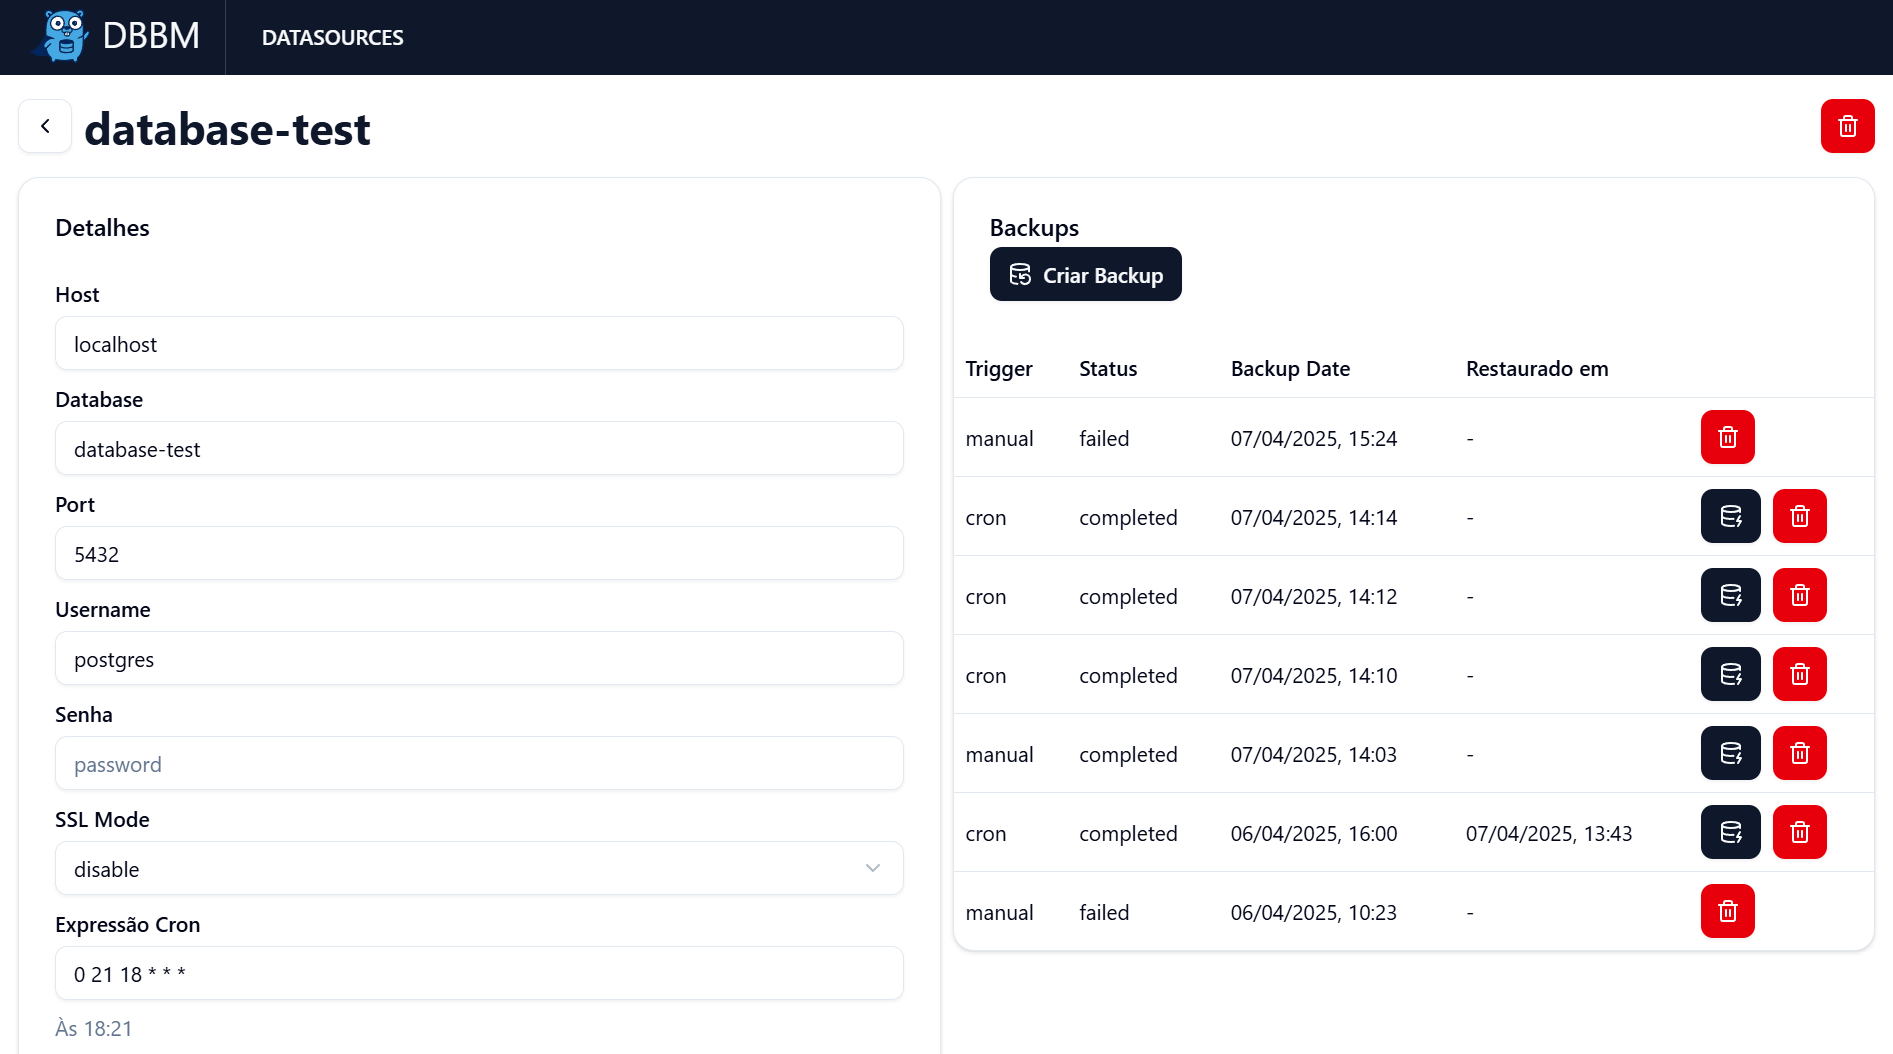
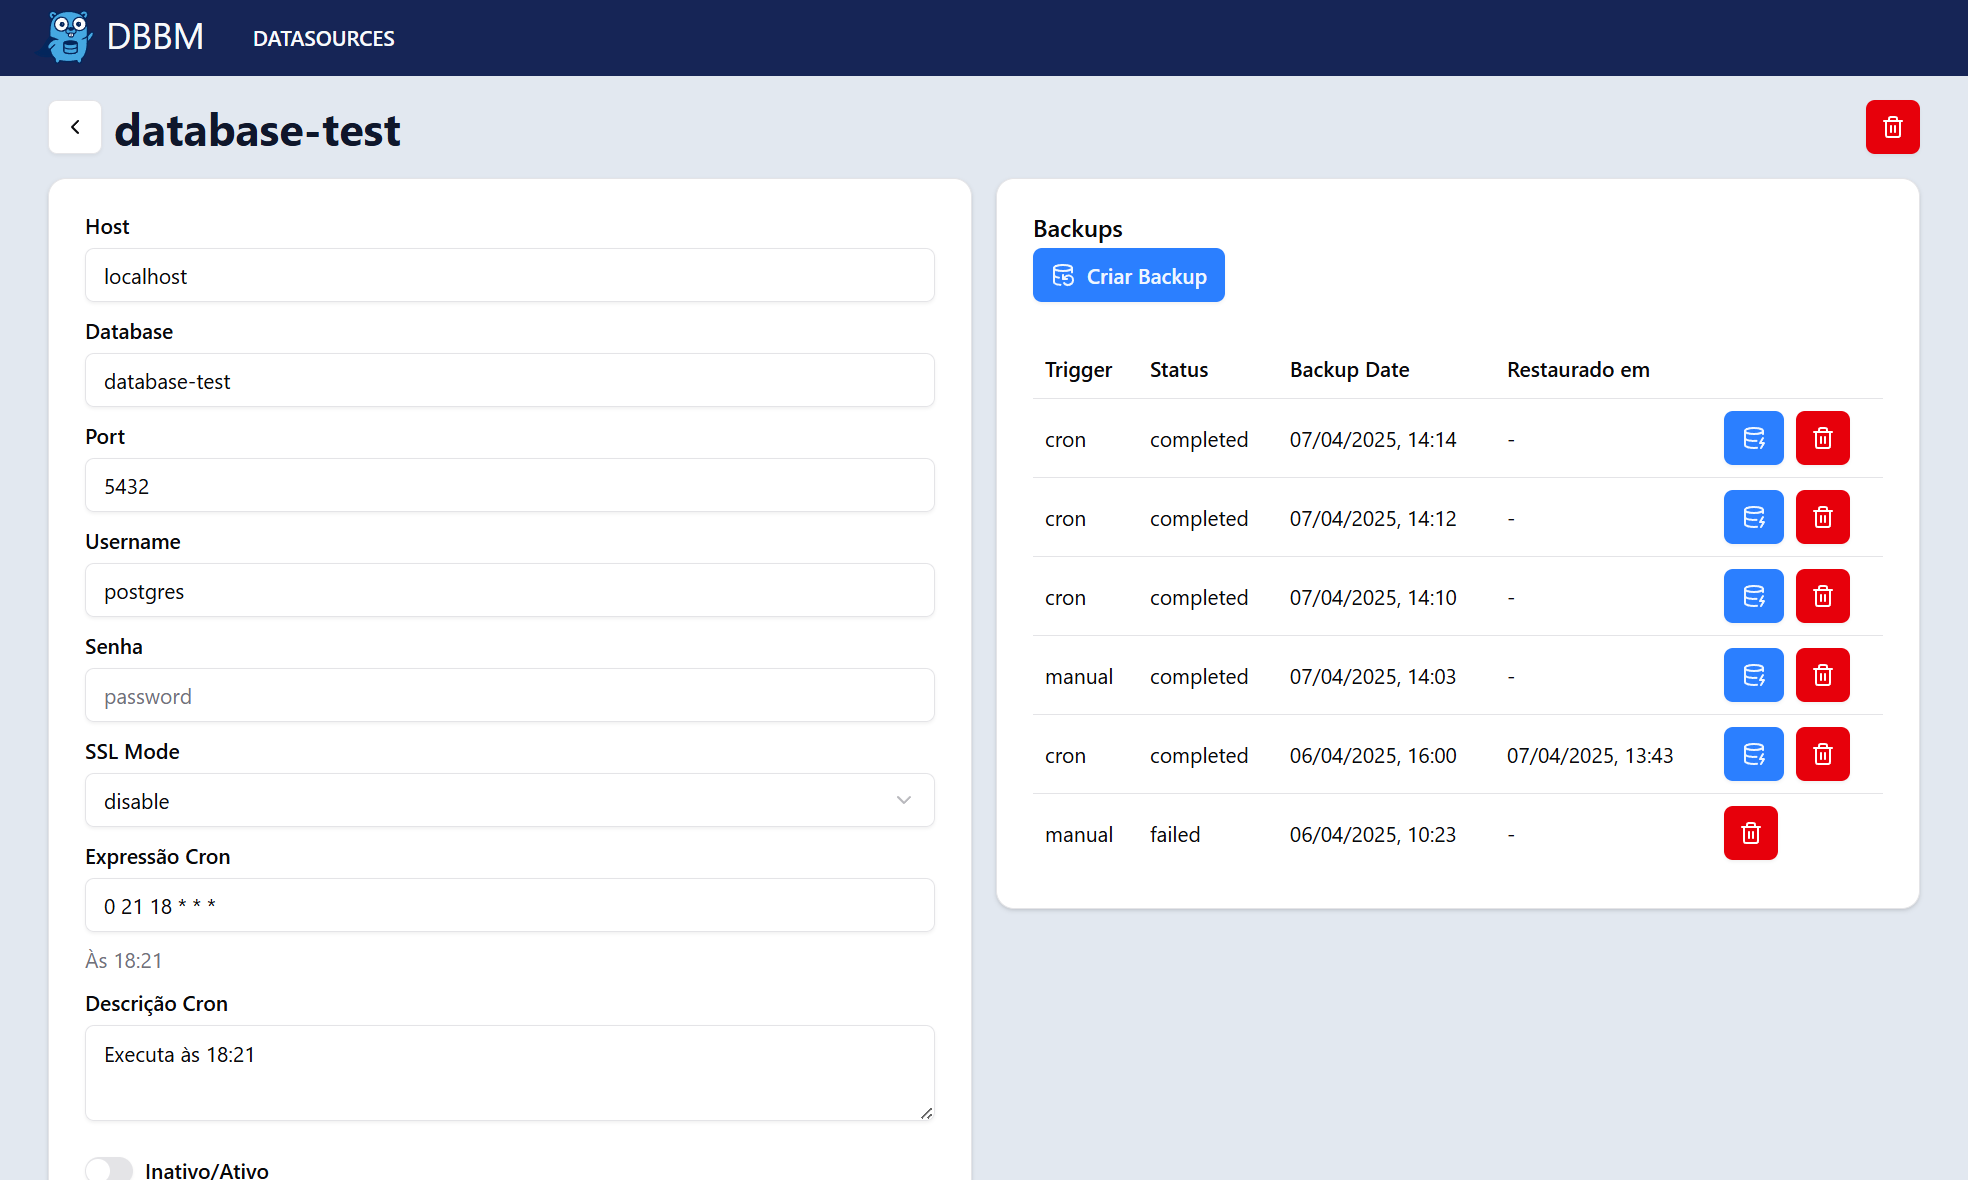
feat: implement confirmation dialog

diff --git a/src/app/globals.css b/src/app/globals.css
@@ -2,74 +2,73 @@
 @import "tw-animate-css";
 
 @custom-variant dark (&:is(.dark *));
-
 :root {
-  --radius: 0.625rem;
+  --radius: 0.5rem;
   --background: oklch(1 0 0);
-  --foreground: oklch(0.129 0.042 264.695);
+  --foreground: oklch(0.141 0.005 285.823);
   --card: oklch(1 0 0);
-  --card-foreground: oklch(0.129 0.042 264.695);
+  --card-foreground: oklch(0.141 0.005 285.823);
   --popover: oklch(1 0 0);
-  --popover-foreground: oklch(0.129 0.042 264.695);
-  --primary: oklch(0.208 0.042 265.755);
-  --primary-foreground: oklch(0.984 0.003 247.858);
-  --secondary: oklch(0.968 0.007 247.896);
-  --secondary-foreground: oklch(0.208 0.042 265.755);
-  --muted: oklch(0.968 0.007 247.896);
-  --muted-foreground: oklch(0.554 0.046 257.417);
-  --accent: oklch(0.968 0.007 247.896);
-  --accent-foreground: oklch(0.208 0.042 265.755);
+  --popover-foreground: oklch(0.141 0.005 285.823);
+  --primary: oklch(0.623 0.214 259.815);
+  --primary-foreground: oklch(0.97 0.014 254.604);
+  --secondary: oklch(0.967 0.001 286.375);
+  --secondary-foreground: oklch(0.21 0.006 285.885);
+  --muted: oklch(0.967 0.001 286.375);
+  --muted-foreground: oklch(0.552 0.016 285.938);
+  --accent: oklch(0.967 0.001 286.375);
+  --accent-foreground: oklch(0.21 0.006 285.885);
   --destructive: oklch(0.577 0.245 27.325);
-  --border: oklch(0.929 0.013 255.508);
-  --input: oklch(0.929 0.013 255.508);
-  --ring: oklch(0.704 0.04 256.788);
+  --border: oklch(0.92 0.004 286.32);
+  --input: oklch(0.92 0.004 286.32);
+  --ring: oklch(0.623 0.214 259.815);
   --chart-1: oklch(0.646 0.222 41.116);
   --chart-2: oklch(0.6 0.118 184.704);
   --chart-3: oklch(0.398 0.07 227.392);
   --chart-4: oklch(0.828 0.189 84.429);
   --chart-5: oklch(0.769 0.188 70.08);
-  --sidebar: oklch(0.984 0.003 247.858);
-  --sidebar-foreground: oklch(0.129 0.042 264.695);
-  --sidebar-primary: oklch(0.208 0.042 265.755);
-  --sidebar-primary-foreground: oklch(0.984 0.003 247.858);
-  --sidebar-accent: oklch(0.968 0.007 247.896);
-  --sidebar-accent-foreground: oklch(0.208 0.042 265.755);
-  --sidebar-border: oklch(0.929 0.013 255.508);
-  --sidebar-ring: oklch(0.704 0.04 256.788);
+  --sidebar: oklch(0.985 0 0);
+  --sidebar-foreground: oklch(0.141 0.005 285.823);
+  --sidebar-primary: oklch(0.623 0.214 259.815);
+  --sidebar-primary-foreground: oklch(0.97 0.014 254.604);
+  --sidebar-accent: oklch(0.967 0.001 286.375);
+  --sidebar-accent-foreground: oklch(0.21 0.006 285.885);
+  --sidebar-border: oklch(0.92 0.004 286.32);
+  --sidebar-ring: oklch(0.623 0.214 259.815);
 }
 
 .dark {
-  --background: oklch(0.129 0.042 264.695);
-  --foreground: oklch(0.984 0.003 247.858);
-  --card: oklch(0.208 0.042 265.755);
-  --card-foreground: oklch(0.984 0.003 247.858);
-  --popover: oklch(0.208 0.042 265.755);
-  --popover-foreground: oklch(0.984 0.003 247.858);
-  --primary: oklch(0.929 0.013 255.508);
-  --primary-foreground: oklch(0.208 0.042 265.755);
-  --secondary: oklch(0.279 0.041 260.031);
-  --secondary-foreground: oklch(0.984 0.003 247.858);
-  --muted: oklch(0.279 0.041 260.031);
-  --muted-foreground: oklch(0.704 0.04 256.788);
-  --accent: oklch(0.279 0.041 260.031);
-  --accent-foreground: oklch(0.984 0.003 247.858);
+  --background: oklch(0.141 0.005 285.823);
+  --foreground: oklch(0.985 0 0);
+  --card: oklch(0.21 0.006 285.885);
+  --card-foreground: oklch(0.985 0 0);
+  --popover: oklch(0.21 0.006 285.885);
+  --popover-foreground: oklch(0.985 0 0);
+  --primary: oklch(0.546 0.245 262.881);
+  --primary-foreground: oklch(0.379 0.146 265.522);
+  --secondary: oklch(0.274 0.006 286.033);
+  --secondary-foreground: oklch(0.985 0 0);
+  --muted: oklch(0.274 0.006 286.033);
+  --muted-foreground: oklch(0.705 0.015 286.067);
+  --accent: oklch(0.274 0.006 286.033);
+  --accent-foreground: oklch(0.985 0 0);
   --destructive: oklch(0.704 0.191 22.216);
   --border: oklch(1 0 0 / 10%);
   --input: oklch(1 0 0 / 15%);
-  --ring: oklch(0.551 0.027 264.364);
+  --ring: oklch(0.488 0.243 264.376);
   --chart-1: oklch(0.488 0.243 264.376);
   --chart-2: oklch(0.696 0.17 162.48);
   --chart-3: oklch(0.769 0.188 70.08);
   --chart-4: oklch(0.627 0.265 303.9);
   --chart-5: oklch(0.645 0.246 16.439);
-  --sidebar: oklch(0.208 0.042 265.755);
-  --sidebar-foreground: oklch(0.984 0.003 247.858);
-  --sidebar-primary: oklch(0.488 0.243 264.376);
-  --sidebar-primary-foreground: oklch(0.984 0.003 247.858);
-  --sidebar-accent: oklch(0.279 0.041 260.031);
-  --sidebar-accent-foreground: oklch(0.984 0.003 247.858);
+  --sidebar: oklch(0.21 0.006 285.885);
+  --sidebar-foreground: oklch(0.985 0 0);
+  --sidebar-primary: oklch(0.546 0.245 262.881);
+  --sidebar-primary-foreground: oklch(0.379 0.146 265.522);
+  --sidebar-accent: oklch(0.274 0.006 286.033);
+  --sidebar-accent-foreground: oklch(0.985 0 0);
   --sidebar-border: oklch(1 0 0 / 10%);
-  --sidebar-ring: oklch(0.551 0.027 264.364);
+  --sidebar-ring: oklch(0.488 0.243 264.376);
 }
 
 @theme inline {

diff --git a/src/app/(dashboard)/datasources/_components/delete-datasource-button.tsx b/src/app/(dashboard)/datasources/_components/delete-datasource-button.tsx
@@ -4,8 +4,18 @@ import { Trash2 } from "lucide-react"
 import { useRouter } from "next/navigation"
 import { toast } from "sonner"
 import { deleteDatasource } from "~/actions/datasource"
+import {
+  AlertDialog,
+  AlertDialogAction,
+  AlertDialogCancel,
+  AlertDialogContent,
+  AlertDialogDescription,
+  AlertDialogFooter,
+  AlertDialogHeader,
+  AlertDialogTitle,
+  AlertDialogTrigger,
+} from "~/components/ui/alert-dialog"
 import { Button } from "~/components/ui/button"
-
 type Props = {
   datasourceId: string
 }
@@ -21,7 +31,25 @@ export function DeleteDatasourceButton({ datasourceId }: Props) {
     })
   }
 
-  return <Button variant="destructive" size="icon" onClick={handleDeleteDatasource}>
-    <Trash2 />
-  </Button>
+  return (
+    <AlertDialog>
+      <AlertDialogTrigger asChild>
+        <Button variant="destructive" size="icon" >
+          <Trash2 />
+        </Button>
+      </AlertDialogTrigger>
+      <AlertDialogContent>
+        <AlertDialogHeader>
+          <AlertDialogTitle>Você tem certeza?</AlertDialogTitle>
+          <AlertDialogDescription>
+            Essa ação não pode ser desfeita. Isso vai remover permanentemente seus dados e arquivos.
+          </AlertDialogDescription>
+        </AlertDialogHeader>
+        <AlertDialogFooter>
+          <AlertDialogCancel>Cancelar</AlertDialogCancel>
+          <AlertDialogAction onClick={handleDeleteDatasource}>Continuar</AlertDialogAction>
+        </AlertDialogFooter>
+      </AlertDialogContent>
+    </AlertDialog>
+  )
 }

diff --git a/src/app/(dashboard)/datasources/_components/delete-backup-button.tsx b/src/app/(dashboard)/datasources/_components/delete-backup-button.tsx
@@ -3,6 +3,17 @@
 import { Trash2 } from "lucide-react"
 import { toast } from "sonner"
 import { deleteBackup } from "~/actions/backup"
+import {
+  AlertDialog,
+  AlertDialogAction,
+  AlertDialogCancel,
+  AlertDialogContent,
+  AlertDialogDescription,
+  AlertDialogFooter,
+  AlertDialogHeader,
+  AlertDialogTitle,
+  AlertDialogTrigger,
+} from "~/components/ui/alert-dialog"
 import { Button } from "~/components/ui/button"
 
 type Props = {
@@ -16,7 +27,25 @@ export function DeleteBackupButton({ backupId }: Props) {
       toast.error(e.message)
     })
   }
-  return <Button variant="destructive" size="icon" onClick={handleDeleteBackup}>
-    <Trash2 />
-  </Button>
+  return (
+    <AlertDialog>
+      <AlertDialogTrigger asChild>
+        <Button variant="destructive" size="icon" >
+          <Trash2 />
+        </Button>
+      </AlertDialogTrigger>
+      <AlertDialogContent>
+        <AlertDialogHeader>
+          <AlertDialogTitle>Você tem certeza?</AlertDialogTitle>
+          <AlertDialogDescription>
+            Essa ação não pode ser desfeita. Isso vai remover permanentemente seus dados e arquivos.
+          </AlertDialogDescription>
+        </AlertDialogHeader>
+        <AlertDialogFooter>
+          <AlertDialogCancel>Cancelar</AlertDialogCancel>
+          <AlertDialogAction onClick={handleDeleteBackup}>Continuar</AlertDialogAction>
+        </AlertDialogFooter>
+      </AlertDialogContent>
+    </AlertDialog>
+  )
 }

diff --git a/src/app/(dashboard)/datasources/_components/create-backup-button.tsx b/src/app/(dashboard)/datasources/_components/create-backup-button.tsx
@@ -3,6 +3,17 @@
 import { DatabaseBackup } from "lucide-react"
 import { toast } from "sonner"
 import { createBackup } from "~/actions/backup"
+import {
+  AlertDialog,
+  AlertDialogAction,
+  AlertDialogCancel,
+  AlertDialogContent,
+  AlertDialogDescription,
+  AlertDialogFooter,
+  AlertDialogHeader,
+  AlertDialogTitle,
+  AlertDialogTrigger,
+} from "~/components/ui/alert-dialog"
 import { Button } from "~/components/ui/button"
 
 type Props = {
@@ -18,8 +29,26 @@ export function CreateBackupButton({ datasourceId }: Props) {
     })
   }
 
-  return <Button onClick={handleCreateBackup}>
-    <DatabaseBackup />
-    Criar Backup
-  </Button>
+  return (
+    <AlertDialog>
+      <AlertDialogTrigger asChild>
+        <Button >
+          <DatabaseBackup />
+          Criar Backup
+        </Button>
+      </AlertDialogTrigger>
+      <AlertDialogContent>
+        <AlertDialogHeader>
+          <AlertDialogTitle>Você tem certeza?</AlertDialogTitle>
+          <AlertDialogDescription>
+            Esta ação seria inicializada e pode demorar alguns minutos para finalizar.
+          </AlertDialogDescription>
+        </AlertDialogHeader>
+        <AlertDialogFooter>
+          <AlertDialogCancel>Cancelar</AlertDialogCancel>
+          <AlertDialogAction onClick={handleCreateBackup}>Continuar</AlertDialogAction>
+        </AlertDialogFooter>
+      </AlertDialogContent>
+    </AlertDialog>
+  )
 }

diff --git a/src/app/(dashboard)/datasources/_components/datasource-update-form.tsx b/src/app/(dashboard)/datasources/_components/datasource-update-form.tsx
@@ -5,7 +5,7 @@ import { useForm } from "react-hook-form"
 import { toast } from "sonner"
 import { updateDatasource } from "~/actions/datasource"
 import { Button } from "~/components/ui/button"
-import { Card, CardContent, CardFooter, CardHeader, CardTitle } from "~/components/ui/card"
+import { Card, CardContent, CardFooter } from "~/components/ui/card"
 import { Form } from "~/components/ui/form"
 import { DatasourceForm } from "./datasource-form"
 import { datasourceFormSchema, DatasourceFormSchema, DatasourceSchema } from "./datasource-schema"
@@ -45,9 +45,6 @@ export function DatasourceUpdateForm({ datasource }: Props) {
     <Form {...form}>
       <form onSubmit={form.handleSubmit(handleUpdateDatasource)}>
         <Card>
-          <CardHeader>
-            <CardTitle>Detalhes</CardTitle>
-          </CardHeader>
           <CardContent>
             <DatasourceForm />
           </CardContent>

diff --git a/src/app/(dashboard)/datasources/_components/datasource-create-form.tsx b/src/app/(dashboard)/datasources/_components/datasource-create-form.tsx
@@ -6,7 +6,7 @@ import { useForm } from "react-hook-form"
 import { toast } from "sonner"
 import { createDatasource } from "~/actions/datasource"
 import { Button } from "~/components/ui/button"
-import { Card, CardContent, CardFooter, CardHeader, CardTitle } from "~/components/ui/card"
+import { Card, CardContent, CardFooter } from "~/components/ui/card"
 import { Form } from "~/components/ui/form"
 import { DatasourceForm } from "./datasource-form"
 import { datasourceFormSchema, DatasourceFormSchema, SSLMode } from "./datasource-schema"
@@ -44,9 +44,6 @@ export function DatasourceCreateForm() {
     <Form {...form}>
       <form onSubmit={form.handleSubmit(handleCreateDatasource)}>
         <Card>
-          <CardHeader>
-            <CardTitle>Detalhes do novo datasource</CardTitle>
-          </CardHeader>
           <CardContent>
             <DatasourceForm />
           </CardContent>

diff --git a/src/app/(dashboard)/datasources/[id]/page.tsx b/src/app/(dashboard)/datasources/[id]/page.tsx
@@ -38,16 +38,16 @@ export default async function UpdateDatasourcesPage({ params }: { params: Promis
           <DeleteDatasourceButton datasourceId={datasource.id} />
         </div>
       </div>
-      <div className="grid gap-2 items-start grid-cols-1 sm:grid-cols-2">
+      <div className="grid gap-4 items-start grid-cols-1 sm:grid-cols-2">
         <DatasourceUpdateForm datasource={datasource} />
-        <Card className="pb-0">
+        <Card>
           <CardHeader>
             <CardTitle>Backups</CardTitle>
             <CardDescription>
               <CreateBackupButton datasourceId={datasource.id} />
             </CardDescription>
           </CardHeader>
-          <CardContent className="p-0">
+          <CardContent>
             <Table>
               <TableHeader>
                 <TableRow>

diff --git a/src/app/(dashboard)/datasources/page.tsx b/src/app/(dashboard)/datasources/page.tsx
@@ -23,8 +23,8 @@ export default async function DatasourcesPage() {
         </div>
       </div>
 
-      <Card className="pb-0">
-        <CardContent className="p-0">
+      <Card>
+        <CardContent>
           <Table>
             <TableHeader>
               <TableRow>
@@ -45,7 +45,7 @@ export default async function DatasourcesPage() {
                     <TableCell>{d.cron.enabled ? 'Ativo' : 'Inativo'}</TableCell>
                     <TableCell>
                       <Link href={`/datasources/${d.id}`}>
-                        <Button size="sm" variant="link">
+                        <Button size="sm" variant="outline">
                           Detalhes
                         </Button>
                       </Link>

diff --git a/src/components/app-header/navbar.tsx b/src/components/app-header/navbar.tsx
@@ -20,7 +20,7 @@ export function Navbar() {
           <Link
             key={page.href}
             href={page.href}
-            className={cn(isCurrentPage && 'bg-slate-800', 'px-4 py-4 text-slate-50 uppercase text-sm font-semibold hover:bg-slate-800 transition-colors ease-in-out')}>
+            className={cn(isCurrentPage && 'brightness-110', 'px-4 py-4 text-slate-50 uppercase text-sm font-semibold bg-blue-950 hover:brightness-125 transition-colors ease-in-out')}>
             {page.label}
           </Link>
         )

diff --git a/src/components/app-header/brand.tsx b/src/components/app-header/brand.tsx
@@ -3,7 +3,7 @@ import Link from "next/link";
 
 export function Brand() {
   return (
-    <div className="border-r border-r-slate-700 p-2 pr-4">
+    <div className="p-2">
       <Link href="/" className="flex flex-row gap-2">
         <Image src="/logo.svg" width={584} height={526} alt="" className="w-[40px]" />
         <h1 className="text-slate-50 text-2xl">DBBM</h1>

diff --git a/src/app/(dashboard)/layout.tsx b/src/app/(dashboard)/layout.tsx
@@ -12,7 +12,7 @@ export default function DashboardLayout({
   children: React.ReactNode;
 }>) {
   return (
-    <div className="flex flex-col gap-4 ">
+    <div className="flex flex-col gap-4 min-h-[100dvh] bg-slate-200 pb-12">
       <AppHeader />
       <main className="container mx-auto px-4">
         {children}

diff --git a/src/components/app-header/app-header.tsx b/src/components/app-header/app-header.tsx
@@ -3,7 +3,7 @@ import { Navbar } from "./navbar";
 
 export function AppHeader() {
   return (
-    <header className="bg-slate-900 flex flex-row items-center gap-2 px-4">
+    <header className="bg-blue-950 flex flex-row items-center gap-2 px-4">
       <Brand />
       <Navbar />
     </header>
